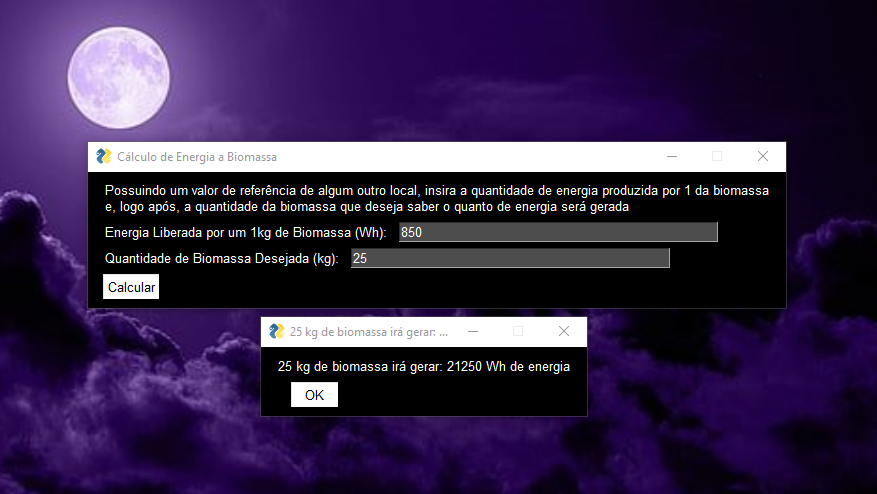
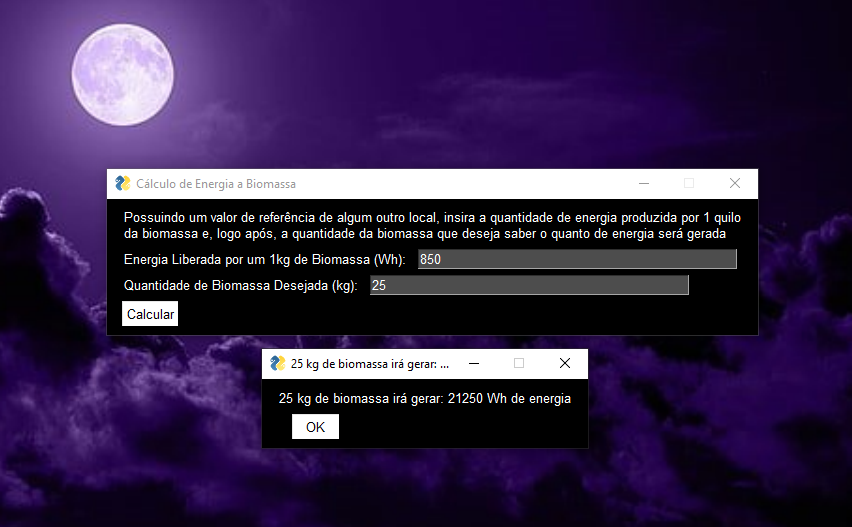
.gitignore

diff --git a/calculadora.py b/calculadora.py
@@ -6,7 +6,7 @@ sg.theme('Black')
 
 # Criação do layout 
 layout = [
-    [sg.Text('Possuindo um valor de referência de algum outro local, insira a quantidade de energia produzida por 1 da biomassa\ne, logo após, a quantidade da biomassa que deseja saber o quanto de energia será gerada')],
+    [sg.Text('Possuindo um valor de referência de algum outro local, insira a quantidade de energia produzida por 1 quilo\nda biomassa e, logo após, a quantidade da biomassa que deseja saber o quanto de energia será gerada')],
     [sg.Text('Energia Liberada por um 1kg de Biomassa (Wh):'), sg.Input(key = 'energia')],
     [sg.Text('Quantidade de Biomassa Desejada (kg):'), sg.Input(key = 'biomassa')],
     [sg.Button('Calcular')],
